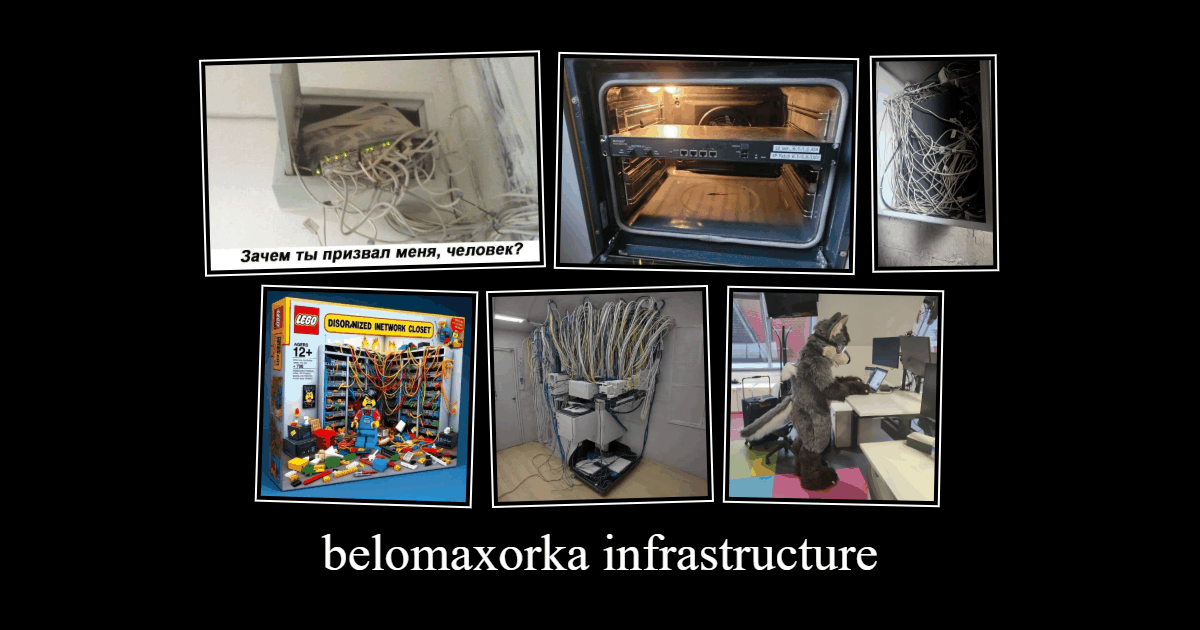
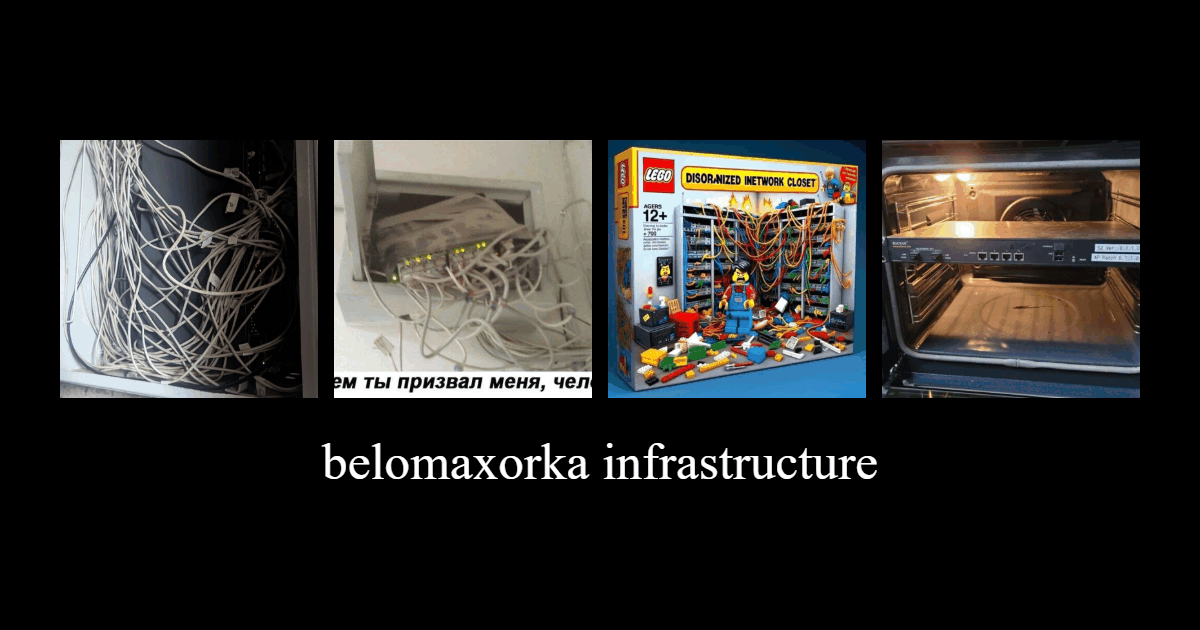
infra: the meme viewer goes; the preview is the grid as it is
site-api no longer has /m/{id} (s-a d4515c1), so the "meme" template,
assets/js/meme.js and its words (count, back, full) go. /fetch stays, now
reachable only by its address.

diff --git a/templates/infra.html b/templates/infra.html
@@ -84,61 +84,12 @@
 </html>
 {{- end}}
 
-{{/* One picture of the wall (/m/{id}): large, left and right to the neighbours (keys and swipe too:
-     assets/js/meme.js), Esc back to the wall. Without JS the same with links. A click opens the picture full size. */}}
-{{define "meme" -}}
-<!doctype html>
-<html lang="{{lang}}">
-<head>
-<meta charset="utf-8">
-<meta http-equiv="Content-Security-Policy" content="default-src 'none'; style-src 'unsafe-inline'; img-src 'self'; script-src 'self'; base-uri 'none'; form-action 'none'">
-<meta name="viewport" content="width=device-width, initial-scale=1">
-<title>{{with .Meme}}#{{.N}} · {{end}}belomaxorka infrastructure</title>
-<meta name="robots" content="noindex">
-<link rel="icon" href="/favicon.ico">
-<meta name="theme-color" content="#000000">
-<style>
-  :root { color-scheme: dark; }
-  html, body { margin: 0; background: #000; color: #fff; }
-  body {
-    min-height: 100vh; min-height: 100dvh; box-sizing: border-box; padding: 20px 16px;
-    display: flex; flex-direction: column; align-items: center; justify-content: center; gap: 14px;
-    font-family: 'Times New Roman', Times, serif; text-align: center; overflow-x: hidden;
-  }
-  a { color: #fff; }
-  .one { margin: 0; }
-  .one a { display: block; border: 4px solid #000; outline: 2px solid #fff; }
-  .one img { display: block; max-width: calc(100vw - 44px); max-height: calc(100dvh - 150px); width: auto; height: auto; }
-  .one figcaption { margin: 12px auto 0; max-width: 640px; font-size: .95rem; color: #bbb; }
-  .pager { display: flex; gap: 18px; align-items: baseline; justify-content: center; font-size: 1.15rem; }
-  .pager a { padding: 6px 4px; }
-</style>
-</head>
-<body>
-{{- with .Meme}}
-<figure class="one">
-  <a href="{{.Full}}" title="{{t "infra.full"}}"><img src="{{.Full}}" width="{{.FW}}" height="{{.FH}}" alt="{{or .Alt (t "infra.meme_alt")}}"></a>
-  {{- with .Alt}}<figcaption>{{.}}</figcaption>{{end}}
-</figure>
-<nav class="pager">
-  {{- with .Prev}}<a href="{{.Href}}" rel="prev">← {{t "infra.newer"}}</a>{{end}}
-  <span>{{t "infra.count" .N .Total}}</span>
-  {{- with .Next}}<a href="{{.Href}}" rel="next">{{t "infra.older"}} →</a>{{end}}
-</nav>
-<a class="back" href="{{.Back}}">{{t "infra.back"}}</a>
-{{- else}}
-<a class="back" href="/">{{t "infra.back"}}</a>
-{{- end}}
-<script src="{{asset "js/meme.js"}}" defer></script>
-</body>
-</html>
-{{- end}}
-
 {{define "ff-pct"}}<span class="{{if ge . 80}}r{{else if ge . 50}}y{{else}}g{{end}}">{{.}}%</span>{{end}}
 {{define "ff-batt"}}<span class="{{if ge . 50}}g{{else if ge . 20}}y{{else}}r{{end}}">{{.}}%</span>{{end}}
 {{define "ff-colors"}}{{if .}}<s class="k2"></s><s class="r2"></s><s class="g2"></s><s class="y2"></s><s class="b2"></s><s class="m2"></s><s class="c2"></s><s class="w2"></s>{{else}}<s class="k"></s><s class="r"></s><s class="g"></s><s class="y"></s><s class="b"></s><s class="m"></s><s class="c"></s><s class="w"></s>{{end}}{{end}}
 
-{{/* stupid.fish's "now with a better server!" leads to their server's fastfetch; here it is live: Proxmox, the UPS, Gatus. */}}
+{{/* stupid.fish's "now with a better server!" leads to their server's fastfetch; here it is live: Proxmox, the UPS, Gatus.
+     The page above no longer links to it: only its address, /fetch, leads here. */}}
 {{define "infra-fetch" -}}
 <!doctype html>
 <html lang="en">

diff --git a/README.md b/README.md
@@ -26,9 +26,9 @@ works with JavaScript off. On top of that, [htmx](https://htmx.org) refreshes th
 - `content/*.yaml`: what the page lists (racks, contacts, buttons, donations, lamps, the profile, the hardware's names,
   the addresses the templates link to in `links.yaml`); edit and push, no code
 - `templates/infra.html`: [infra.belomaxorka.dev](https://infra.belomaxorka.dev), where «hosted on belomaxorka
-  infrastructure» leads: a joke page in the genre of stupid.fish technologies (a wall of homelab memes: drop a
-  picture into `content/memes/` and push; site-api lists, shrinks and pages them, `/m/{id}` shows one) and a live fastfetch of the Proxmox host at `/fetch`; its 88x31 is
-  `/88x31/infra.gif`
+  infrastructure» leads: a joke page in the genre of stupid.fish technologies (a grid of homelab memes, just the
+  pictures: drop one into `content/memes/` and push; site-api lists them, crops them square and pages them) and a live
+  fastfetch of the Proxmox host at `/fetch` (not linked from the page); its 88x31 is `/88x31/infra.gif`
 - `assets/css/`: plain CSS split by component; `site.css` lists them as `@import`s and site-api joins
   them into one file
 - `assets/js/`: `rack.js` (shared by the rest: what the units declare about themselves, cable physics, the hand that
